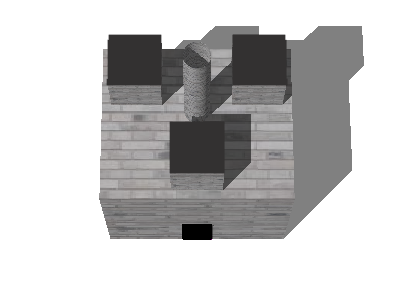
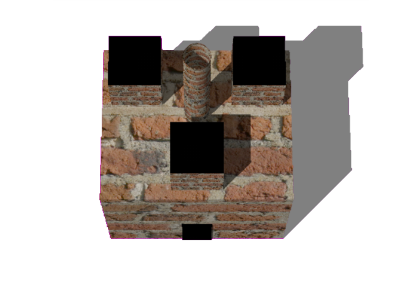
Replace some CC BY 2.0 graphics.

Changed region(s): [[0.2437, 0.0608, 0.7614, 0.8209], [0.8223, 0.0608, 0.9137, 0.0912], [0.9137, 0.1824, 0.9442, 0.2128]]

diff --git a/readme.html b/readme.html
@@ -1175,7 +1175,7 @@ files in the source archive).</p>
 <li>"Crossbow" defence icon - from <a href="http://opengameart.org/content/low-poly-crossbow">http://opengameart.org/content/low-poly-crossbow</a>, by Lamoot, under <a href="http://creativecommons.org/licenses/by/3.0/">CC BY 3.0 or later</a>.</li>
 <li>"Rifle" weapon icon - from <a href="http://www.flickr.com/photos/36224933@N07/3347657196">http://www.flickr.com/photos/&#8203;36224933@N07/3347657196</a>, by Antique Military Rifles, under <a href="http://creativecommons.org/licenses/by-sa/2.0/deed.en">CC BY-SA 2.0</a>.</li>
 <li>"Machine gun" defence icon - from <a href="http://commons.wikimedia.org/wiki/File:Machine_gun_Type_96_1.jpg">http://commons.wikimedia.org/&#8203;wiki/File:Machine_gun_Type_96_1.jpg</a>, public domain.</li>
-<li>"Rocket" defence icon - from <a href="http://commons.wikimedia.org/wiki/File:Bazookasmithsonian.jpg">http://commons.wikimedia.org/&#8203;wiki/File:Bazookasmithsonian.jpg</a>, by Carl Malamud, under <a href="http://creativecommons.org/licenses/by/2.0/deed.en">CC BY 2.0</a>.</li>
+<li>"Rocket" defence icon - from <a href="https://commons.wikimedia.org/wiki/File:M6A3C_bazooka_rocket.png">https://commons.wikimedia.org/wiki/File:M6A3C_bazooka_rocket.png</a>, public domain.</li>
 <li>"Bloody sword" icon - from <a href="http://opengameart.org/content/flare-item-variation-60x60-only">http://opengameart.org/content/flare-item-variation-60x60-only</a>, by Mumu, under <a href="http://creativecommons.org/publicdomain/zero/1.0/">CC0</a>.</li>
 <li>"Flag" icons - from <a href="http://commons.wikimedia.org/wiki/File:Animated-Flag-Denmark.gif">http://commons.wikimedia.org/&#8203;wiki/File:Animated-Flag-Denmark.gif</a>, by Dave Johnston, public domain.</li>
 <li>"Tick" icon - from <a href="http://opengameart.org/content/gui-items">http://opengameart.org/content/gui-items</a>, by Scribe, under <a href="http://creativecommons.org/licenses/by/3.0/">CC BY 3.0 or later</a>.</li>
@@ -1184,10 +1184,10 @@ files in the source archive).</p>
 <li>font.png , font_large.png - "TechBreak" from <a href="http://opengameart.org/content/the-collection-of-8-bit-fonts-for-grafx2-r2">http://opengameart.org/content/the-collection-of-8-bit-fonts-for-grafx2-r2</a>, by usr_share, under <a href="http://creativecommons.org/publicdomain/zero/1.0/">CC0</a>.</li>
 <li>The rendered building graphics use texture maps from:<ul>
 <li>Tileable5.png, Tileable9.png, Tileable10.png - from <a href="http://opengameart.org/content/117-stone-wall-tilable-textures-in-8-themes">http://opengameart.org/content/117-stone-wall-tilable-textures-in-8-themes</a>, by p0ss, under the GPL v2.</li>
-<li>"Fence Panel" - from <a href="http://www.lovetextures.com">http://www.lovetextures.com</a> under <a href="http://creativecommons.org/licenses/by/2.0/uk/">CC BY 2.0</a>.</li>
+<li>"Sand 4.jpg" - from <a href="https://opengameart.org/content/sand-texture-pack">https://opengameart.org/content/sand-texture-pack</a>, by MrCraft Animation, under CC0.</li>
 <li>2010-09-04_11-56-46.jpg, 2010-09-04_08-32-36.jpg - from <a href="http://opengameart.org/content/45-high-res-ground-texture-photos">http://opengameart.org/content/45-high-res-ground-texture-photos</a>, by bart, under <a href="http://creativecommons.org/licenses/by/3.0/">CC BY 3.0</a>.</li>
 <li>bricks2.jpg - from <a href="http://opengameart.org/content/brick-texture">http://opengameart.org/content/brick-texture</a>, by Bart K, under the GPL v2, GPL v3, and <a href="http://creativecommons.org/licenses/by-sa/3.0/">CC BY-SA 3.0</a>.</li>
-<li>brick_seier.jpg - from <a href="http://www.flickr.com/photos/seier/4340689010/">http://www.flickr.com/photos/seier/4340689010/</a> by "seier+seier" under <a href="http://creativecommons.org/licenses/by/2.0/">CC BY 2.0</a>.</li>
+<li>MostlyRedWall_S.jpg - from <a href="https://opengameart.org/content/mostly-red-brick-wall-seamless-texture-with-normalmap">https://opengameart.org/content/mostly-red-brick-wall-seamless-texture-with-normalmap</a>, by Keith333, under <a href="http://creativecommons.org/licenses/by/3.0/">CC BY 3.0 or later</a>.</li>
 <li>Shingle.png - from <a href="http://opengameart.org/content/dims-enviromental-and-architectural-textures">http://opengameart.org/content/dims-enviromental-and-architectural-textures</a>, by Dim, under <a href="http://creativecommons.org/licenses/by/3.0/">CC BY 3.0</a>.</li>
 <li>hg07.png - from <a href="http://opengameart.org/content/20-textures-for-metal-texture-creation-sets">http://opengameart.org/content/20-textures-for-metal-texture-creation-sets</a>, by rubberduck, under <a href="http://creativecommons.org/publicdomain/zero/1.0/">CC0</a>.</li>
 </ul></li>
